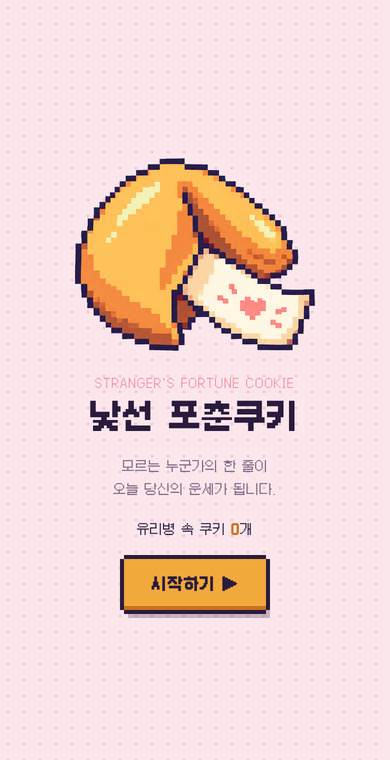
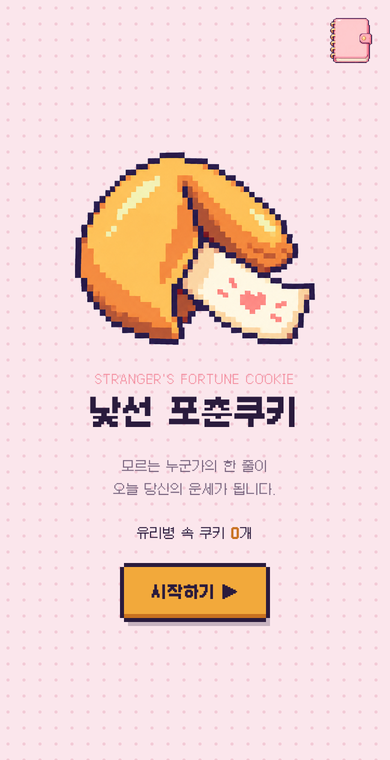
낯선 쪽지 모음 추가: 내가 연 쪽지를 수첩에 한 장씩 모으기
- 시작 화면 오른쪽 위 수첩 아이콘(모은 장수 배지)
- 표지 → 펼친 줄 노트에서 한 장씩 넘겨 보기 (버튼·스와이프·화살표 키)
- 쿠키를 열 때 서버에 방문자별로 저장 (GET ?book=1)
- 시작 화면 요소 간격 정리
- README 업데이트 기록·기능·API 갱신

Claude-Session: https://claude.ai/code/session_019H48sgWEPCeJ89SP3p48pL

Changed region(s): [[0.1846, 0.1816, 0.8308, 0.575], [0.3077, 0.6658, 0.7077, 0.8474], [0.8308, 0.0, 0.9538, 0.0908]]

diff --git a/index.html b/index.html
@@ -107,9 +107,51 @@ textarea::placeholder{color:#B7A6BB}
 .mixing{font-size:13px;color:var(--muted)}
 .mixing b{color:var(--dough-dark)}
 /* day / mine */
-.mine{margin:-6px 0 0;font-size:13px;color:var(--ink);background:var(--panel);padding:6px 12px;box-shadow:0 0 0 2px var(--ink);word-break:keep-all}
+#s0{gap:22px}
+#s0 .jar-info{display:grid;gap:12px;justify-items:center}
+.mine{margin:0;font-size:13px;color:var(--ink);background:var(--panel);padding:6px 12px;box-shadow:0 0 0 2px var(--ink);word-break:keep-all}
 .mine b{color:#D9677C}
-.day-note{margin:0;font-size:12px;line-height:1.8;color:var(--muted);word-break:keep-all}
+.day-note{margin:-6px 0 0;font-size:12px;line-height:1.8;color:var(--muted);word-break:keep-all}
+/* collection */
+.book-fab{position:fixed;z-index:3;top:calc(env(safe-area-inset-top,0px) + 14px);right:14px;display:none;justify-items:center;gap:4px;
+  background:none;border:0;padding:4px;cursor:pointer;font:inherit;font-family:var(--pixel);color:var(--ink)}
+body:not([data-screen]) .book-fab,body[data-screen="0"] .book-fab{display:grid}
+.book-ico{position:relative;display:block;width:42px;height:45px}
+.book-ico img{width:100%;height:100%;image-rendering:pixelated;display:block}
+.book-fab:hover .book-ico img{transform:translateY(-2px)}
+.book-fab:focus-visible{outline:3px dashed var(--pink);outline-offset:4px}
+.badge{position:absolute;top:-6px;right:-8px;min-width:20px;height:20px;padding:0 5px;display:grid;place-items:center;
+  background:var(--dough);color:var(--ink);font-size:11px;font-weight:700;box-shadow:0 0 0 2px var(--ink)}
+
+.book-wrap{width:100%;display:grid;gap:16px;justify-items:center}
+.book-sub{font-size:12px;color:var(--muted);margin:0;word-break:keep-all;line-height:1.8}
+/* cover */
+.cover{display:grid;gap:14px;justify-items:center;cursor:pointer;background:none;border:0;padding:0;font:inherit;color:inherit}
+.cover img{width:min(230px,62vw);height:auto;image-rendering:pixelated;display:block}
+.cover:hover img{transform:translateY(-3px)}
+.cover-count{font-size:13px}
+.cover-count b{color:#D9677C}
+/* open notebook */
+.nb{position:relative;width:min(330px,100%);aspect-ratio:3/4;display:grid;grid-template-columns:26px 1fr;
+  box-shadow:0 -4px 0 0 var(--ink),0 4px 0 0 var(--ink),-4px 0 0 0 var(--ink),4px 0 0 0 var(--ink),8px 12px 0 0 rgba(42,27,61,.2);background:#F48FA0}
+.nb-rings{display:flex;flex-direction:column;justify-content:space-around;align-items:center;padding:14px 0;background:#F48FA0}
+.nb-rings i{width:22px;height:9px;background:#F2A93B;box-shadow:0 0 0 2px var(--ink),inset 0 -3px 0 0 #C8711F;transform:translateX(9px)}
+.paper{position:relative;margin:10px 10px 10px 4px;background:#FFFDF6;overflow:hidden;
+  background-image:linear-gradient(90deg,transparent 30px,#F7B8C4 30px,#F7B8C4 32px,transparent 32px),
+    repeating-linear-gradient(transparent 0 31px,#D8E6F2 31px 32px);background-position:0 0,0 70px;
+  box-shadow:inset 0 0 0 2px var(--ink);transform-origin:left center}
+.paper-in{position:absolute;inset:0;padding:20px 16px 14px 42px;text-align:left;display:grid;grid-template-rows:auto 1fr auto;gap:0}
+.p-date{height:50px;display:flex;align-items:center;gap:8px;font-size:13px;font-weight:700;color:#D9677C}
+.p-date small{font-weight:400;color:var(--muted);font-size:11px}
+.p-text{margin:0;padding-top:0;font-size:16px;line-height:32px;color:var(--ink);word-break:keep-all;overflow-wrap:anywhere;overflow:hidden}
+.p-foot{display:flex;justify-content:space-between;gap:6px;font-size:10px;color:var(--muted);font-variant-numeric:tabular-nums;padding-top:6px}
+.pager{display:flex;align-items:center;gap:14px}
+.pager button{font:inherit;font-family:var(--pixel);font-weight:700;font-size:15px;width:40px;height:36px;background:var(--panel);color:var(--ink);border:0;cursor:pointer;
+  box-shadow:0 -3px 0 0 var(--ink),0 3px 0 0 var(--ink),-3px 0 0 0 var(--ink),3px 0 0 0 var(--ink)}
+.pager button:disabled{opacity:.35;cursor:default}
+.pager span{min-width:64px;text-align:center;font-size:12px;color:var(--muted);font-variant-numeric:tabular-nums}
+.sample-badge{font-size:11px;color:#D9677C;margin:0}
+.linkbtn{background:none;border:0;padding:4px;font:inherit;font-size:12px;color:var(--muted);text-decoration:underline;cursor:pointer}
 /* empty */
 .empty-img{width:min(180px,48vw);height:auto;image-rendering:pixelated;filter:grayscale(.35);opacity:.9;animation:sulk 2.4s steps(4) infinite}
 @keyframes sulk{25%{transform:rotate(-4deg)}75%{transform:rotate(4deg)}}
@@ -159,14 +201,19 @@ textarea::placeholder{color:#B7A6BB}
   <img src="assets/icon-sparkle.png" alt="" style="left:9%;bottom:10%;--s:22px;--d:.9s">
   <img src="assets/icon-heart.png" alt="" style="right:8%;bottom:7%;--s:26px;--d:1.5s">
 </div>
+<button class="book-fab" id="openBook" aria-label="낯선 쪽지 모음 열기">
+  <span class="book-ico"><img src="assets/book-icon.png" alt=""><b class="badge" id="bookCount">0</b></span>
+</button>
 <main class="app">
   <!-- 0. 시작 -->
   <section class="screen enter" id="s0" aria-labelledby="t0">
     <img class="cookie-img bob" src="assets/cookie.png" alt="쪽지가 삐져나온 포춘쿠키">
     <h1 id="t0"><small>STRANGER'S FORTUNE COOKIE</small>낯선 포춘쿠키</h1>
     <p class="muted">모르는 누군가의 한 줄이<br>오늘 당신의 운세가 됩니다.</p>
-    <p class="jar">유리병 속 쿠키 <b id="jarCount">–</b>개</p>
-    <p class="mine" id="mine" hidden></p>
+    <div class="jar-info">
+      <p class="jar">유리병 속 쿠키 <b id="jarCount">–</b>개</p>
+      <p class="mine" id="mine" hidden></p>
+    </div>
     <button class="btn" id="start">시작하기 ▶</button>
     <p class="day-note" id="dayNote" hidden></p>
   </section>
@@ -197,6 +244,38 @@ textarea::placeholder{color:#B7A6BB}
       <img class="drop" src="assets/cookie.png" alt="">
     </div>
     <p class="mixing">유리병 속 쿠키 <b id="jarCount2">–</b>개<br>모르는 사람들의 쿠키와 섞는 중…</p>
+  </section>
+
+  <!-- 3. 낯선 쪽지 모음 -->
+  <section class="screen" id="sC" hidden aria-labelledby="tC">
+    <h2 id="tC">낯선 쪽지 모음</h2>
+    <div class="book-wrap">
+      <!-- 표지 -->
+      <div id="coverView" class="book-wrap">
+        <button class="cover" id="cover" aria-label="쪽지 모음 펼치기">
+          <img src="assets/book.png" alt="분홍색 수첩 표지">
+        </button>
+        <p class="cover-count" id="coverCount"></p>
+        <p class="book-sub" id="coverSub"></p>
+        <button class="btn" id="openPages">펼쳐 보기 ▶</button>
+        <button class="linkbtn" id="toggleSample" hidden>어떻게 쌓이는지 예시 보기</button>
+      </div>
+      <!-- 펼친 수첩 -->
+      <div id="pagesView" class="book-wrap" hidden>
+        <p class="sample-badge" id="sampleBadge" hidden>예시 쪽지예요. 실제 수첩에는 내가 받은 쪽지만 담겨요.</p>
+        <div class="nb" id="nb">
+          <div class="nb-rings" aria-hidden="true"><i></i><i></i><i></i><i></i><i></i><i></i></div>
+          <div class="paper" id="paper"><div class="paper-in">
+            <div class="p-date" id="pDate"></div>
+            <p class="p-text" id="pText"></p>
+            <div class="p-foot"><span id="pLucky"></span><span id="pNo"></span></div>
+          </div></div>
+        </div>
+        <div class="pager"><button id="prevPage" aria-label="이전 장">◀</button><span id="pageNum"></span><button id="nextPage" aria-label="다음 장">▶</button></div>
+        <button class="linkbtn" id="closePages">표지로 돌아가기</button>
+      </div>
+    </div>
+    <div class="actions"><button class="btn sub" id="closeBook">처음으로</button></div>
   </section>
 
   <!-- 1.7 깰 쿠키 없음 -->
@@ -238,7 +317,7 @@ textarea::placeholder{color:#B7A6BB}
 <script>
 (function(){
   const $=id=>document.getElementById(id);
-  const screens=[$('s0'),$('s1'),$('sJ'),$('s2'),$('sE')];
+  const screens=[$('s0'),$('s1'),$('sJ'),$('s2'),$('sE'),$('sC')];
   function show(i){
     screens.forEach((s,k)=>{ s.hidden=k!==i; s.classList.toggle('enter',k===i); });
     document.body.dataset.screen=i;
@@ -270,7 +349,7 @@ textarea::placeholder{color:#B7A6BB}
     async count(){const r=await fetch('/api/cookies',{cache:'no-store'}); if(!r.ok) throw r; return (await r.json()).count},
     async put(text){const r=await fetch('/api/cookies',{method:'POST',headers:{'Content-Type':'application/json'},body:JSON.stringify({text,v:visitor,shared})});
       const d=await r.json(); if(!r.ok) throw d; return d},
-    async open(id){const r=await fetch('/api/cookies',{method:'POST',headers:{'Content-Type':'application/json'},body:JSON.stringify({open:id,v:visitor,shared})});
+    async open(id,lucky){const r=await fetch('/api/cookies',{method:'POST',headers:{'Content-Type':'application/json'},body:JSON.stringify({open:id,v:visitor,shared,lucky})});
       const d=await r.json(); if(!r.ok) throw d; return d},
     async me(){const r=await fetch('/api/cookies?me=1&v='+encodeURIComponent(visitor),{cache:'no-store'}); if(!r.ok) throw r; return r.json()},
     async draw(justPut,seen){const q=new URLSearchParams({draw:'1',exclude:justPut||'',v:visitor,shared:shared?'1':'0',seen:seen.slice(-50).join(',')});
@@ -308,6 +387,79 @@ textarea::placeholder{color:#B7A6BB}
     const h=Math.floor(left/3600e3), m=Math.floor(left%3600e3/60e3);
     return (h?h+'시간 ':'')+m+'분';
   }
+  /* ---------- 낯선 쪽지 모음: 내가 연 쪽지를 날짜별로 저장 (배포: 서버 / 미리보기: 내 전용 db 공간 / 그 외: 이 기기) ---------- */
+  const book={ items:[], backend:null,
+    async init(){
+      try{
+        if(window.claude && window.claude.use){
+          const [db,user]=await Promise.all([window.claude.use('db'),window.claude.use('user')]);
+          const uid=user && await user.id();
+          if(db && uid){ this.backend={col:db.collection('data/users/'+uid)}; const snap=await this.backend.col.get(); this.items=snap.docs.filter(d=>d.id.startsWith('p_')).map(d=>d.data()); this.sort(); return; }
+        }
+      }catch(e){}
+      try{
+        const r=await fetch('/api/cookies?book=1&v='+encodeURIComponent(visitor),{cache:'no-store'});
+        if(r.ok){ this.backend={server:true}; this.items=(await r.json()).items||[]; this.sort(); return; }
+      }catch(e){}
+      try{ this.items=JSON.parse(localStorage.getItem('fc-book')||'[]'); }catch(e){ this.items=[]; }
+      this.sort();
+    },
+    sort(){ this.items.sort((a,b)=>b.t-a.t); },
+    async add(e){
+      if(this.items.some(x=>x.id===e.id)) return;
+      this.items.unshift(e);
+      if(this.backend && this.backend.server){ /* 서버는 쿠키를 열 때 이미 저장함 */ }
+      else if(this.backend){ try{ await this.backend.col.doc('p_'+e.id).set(e); }catch(err){} }
+      else{ try{ localStorage.setItem('fc-book',JSON.stringify(this.items)); }catch(err){} }
+    } };
+  const SAMPLES=[
+    {id:'s1',date:'2026-10-18',no:29,text:'좋아하는 것을 계속 따라가세요 반드시 행복해집니다(´▽`)ﾉ',lucky:'행운의 숫자 03 07 29 33 38 45'},
+    {id:'s2',date:'2026-10-17',no:12,text:'우울할 땐 우사기 하입보이 50초부터 들어보세요 ♪♪',lucky:'행운의 숫자 01 03 21 30 40 44'},
+    {id:'s3',date:'2026-10-16',no:3,text:'힘들 땐 하늘을 봐',lucky:'행운의 숫자 16 20 21 29 37 41'},
+    {id:'s4',date:'2026-10-15',no:7,text:'힘든 오늘이 내 인생의 전부는 아니다',lucky:'행운의 숫자 04 10 23 29 32 39'}];
+  let showSample=false, page=0;
+  const WD=['일','월','화','수','목','금','토'];
+  function fmtDate(d){ const [y,m,dd]=d.split('-').map(Number); const w=new Date(Date.UTC(y,m-1,dd)).getUTCDay(); return m+'월 '+dd+'일 ('+WD[w]+')'; }
+  const rowsNow=()=>book.items.length? [...book.items].sort((a,b)=>a.t-b.t) : (showSample? [...SAMPLES].reverse() : []);
+  function renderBook(){
+    const n=book.items.length;
+    $('bookCount').textContent=n; $('bookCount').hidden=!n;
+    $('coverCount').innerHTML = n ? '모은 쪽지 <b>'+n+'</b>장' : '';
+    $('coverSub').innerHTML = n ? '모르는 사람들에게 받은 한 줄이<br>하루에 한 장씩 쌓여요.' : '아직 받은 쪽지가 없어요.<br>오늘의 쿠키를 깨면 첫 장이 채워져요.';
+    $('openPages').hidden=!n; $('toggleSample').hidden=!!n;
+  }
+  function renderPage(){
+    const rows=rowsNow(); if(!rows.length) return;
+    page=Math.max(0,Math.min(page,rows.length-1));
+    const e=rows[page];
+    $('pDate').innerHTML=''; const d=document.createElement('span'); d.textContent=fmtDate(e.date);
+    const sm=document.createElement('small'); sm.textContent='No.'+String(e.no).padStart(3,'0'); $('pDate').append(d,sm);
+    $('pText').textContent=e.text; $('pLucky').textContent=e.lucky; $('pNo').textContent=(page+1)+'번째 쪽지';
+    $('pageNum').textContent=(page+1)+' / '+rows.length;
+    $('prevPage').disabled=page===0; $('nextPage').disabled=page===rows.length-1;
+    $('sampleBadge').hidden=!!book.items.length;
+  }
+  function openPages(){ page=rowsNow().length-1; $('coverView').hidden=true; $('pagesView').hidden=false; renderPage(); }
+  function closePages(){ $('pagesView').hidden=true; $('coverView').hidden=false; showSample=false; renderBook(); }
+  function turn(dir){
+    const rows=rowsNow(), np=page+dir; if(np<0||np>=rows.length) return;
+    page=np; renderPage();
+  }
+  $('prevPage').addEventListener('click',()=>turn(-1));
+  $('nextPage').addEventListener('click',()=>turn(1));
+  $('cover').addEventListener('click',()=>{ if(book.items.length) openPages(); });
+  $('openPages').addEventListener('click',openPages);
+  $('closePages').addEventListener('click',closePages);
+  $('toggleSample').addEventListener('click',()=>{ showSample=true; openPages(); });
+  document.addEventListener('keydown',e=>{ if($('sC').hidden||$('pagesView').hidden) return; if(e.key==='ArrowLeft') turn(-1); if(e.key==='ArrowRight') turn(1); });
+  (()=>{ let x0=null; const nb=$('nb');
+    nb.addEventListener('pointerdown',e=>{ x0=e.clientX; });
+    nb.addEventListener('pointerup',e=>{ if(x0===null) return; const dx=e.clientX-x0; x0=null; if(Math.abs(dx)>40) turn(dx<0?1:-1); });
+  })();
+  $('openBook').addEventListener('click',()=>{ closePages(); renderBook(); show(5); });
+  $('closeBook').addEventListener('click',()=>{ renderStart(); show(0); });
+  book.init().then(renderBook);
+
   function renderStart(){
     if(!shared && day.date!==today()) day=loadDay();
     const st=$('start'), note=$('dayNote'); st.disabled=false;
@@ -509,7 +661,8 @@ textarea::placeholder{color:#B7A6BB}
       $('crackHint').textContent='유리병에 아직 다른 사람의 쿠키가 없어요. 다음 사람이 넣고 나면 다시 두드려 주세요.'; $('actions').hidden=false;
       return;
     }
-    try{ await store.open(pick.id); }
+    const luckyStr='행운의 숫자 '+lucky();
+    try{ await store.open(pick.id,luckyStr); }
     catch(e){
       if(e && e.error==='already_opened'){ day.opened=true; saveDay(); resetCrack(); renderStart(); show(0); return; }
     }
@@ -517,11 +670,13 @@ textarea::placeholder{color:#B7A6BB}
     buzz([30,30,90]); crumbs(6); burst(); cookie.classList.add('split'); cookie.disabled=true; $('taps').hidden=true;
     setTimeout(()=>{
       $('slipText').textContent=pick.text;
-      $('lucky').textContent='행운의 숫자 '+lucky();
+      $('lucky').textContent=luckyStr;
       $('serial').textContent='No.'+String(pick.no).padStart(3,'0');
       $('slip').hidden=false; $('after').hidden=false; $('actions').hidden=false; $('share').hidden=false; $('shareMsg').textContent='';
       $('t2').textContent='포춘쿠키가 깨졌어요!'; $('crackHint').textContent='모르는 누군가의 한 줄이 나왔어요.';
-      if(!shared){ day.opened=true; day.slip={text:pick.text,lucky:$('lucky').textContent,serial:$('serial').textContent}; saveDay(); }
+      if(!shared){ day.opened=true; day.slip={text:pick.text,lucky:$('lucky').textContent,serial:$('serial').textContent}; saveDay();
+        book.add({id:pick.id,date:today(),no:pick.no,text:pick.text,lucky:$('lucky').textContent,t:Date.now()}).then(renderBook);
+        $('shareMsg').textContent='낯선 쪽지 모음에 한 장 담았어요 ♥'; }
     }, matchMedia('(prefers-reduced-motion: reduce)').matches?0:520);
   });
 

diff --git a/api/cookies.js b/api/cookies.js
@@ -7,6 +7,7 @@ const redis = url && token ? new Redis({ url, token }) : null;
 
 const KEY = "fortune:cookies"; // 유리병 속 쿠키 목록
 const OPENS = "fortune:opens"; // 쿠키별로 열린 횟수 (hash: 쿠키 id → 횟수)
+const BOOK = (v) => `fortune:book:${v}`; // 방문자별 '낯선 쪽지 모음' (내가 연 쪽지 목록)
 const MAX_LEN = 100;
 const MAX_COOKIES = 5000;
 const DAY_TTL = 60 * 60 * 48; // 하루 기록은 이틀 뒤 자동 삭제
@@ -54,6 +55,14 @@ export default async function handler(req, res) {
       return res.status(200).json({ mine: ids.length, opened, putToday: !!putToday, openedToday: !!openedToday });
     }
 
+    // 낯선 쪽지 모음: 내가 연 쪽지 목록 (오래된 순)
+    if (req.method === "GET" && req.query.book) {
+      const v = cleanVisitor(req.query.v);
+      if (!v) return res.status(200).json({ items: [] });
+      const items = (await redis.lrange(BOOK(v), 0, -1)).map((c) => (typeof c === "string" ? JSON.parse(c) : c));
+      return res.status(200).json({ items });
+    }
+
     // 유리병 속 쿠키 개수
     if (req.method === "GET" && !req.query.draw) {
       const count = await redis.llen(KEY);
@@ -93,6 +102,15 @@ export default async function handler(req, res) {
           if (!first) return res.status(429).json({ error: "already_opened" });
         }
         const opens = await redis.hincrby(OPENS, id, 1);
+        // 낯선 쪽지 모음에 한 장 저장 (문장과 번호는 서버의 원본에서 가져옴)
+        if (!shared && v) {
+          const all = await readAll();
+          const c = all.find((x) => x.id === id);
+          if (c) {
+            const lucky = String(body.lucky || "").replace(/[^0-9 가-힣]/g, "").slice(0, 40);
+            await redis.rpush(BOOK(v), JSON.stringify({ id: c.id, text: c.text, no: c.no, lucky, date: d, t: Date.now() }));
+          }
+        }
         return res.status(200).json({ ok: true, opens });
       }
 

diff --git a/README.md b/README.md
@@ -74,6 +74,7 @@
 
 | 기능 | 설명 |
 |---|---|
+| **낯선 쪽지 모음** | 내가 연 쪽지가 하루에 한 장씩 수첩에 쌓여요. 시작 화면 오른쪽 위 수첩 아이콘(모은 장수 배지)을 누르면 표지가 나오고, 펼쳐서 한 장씩 넘겨 볼 수 있어요. 서버에 방문자별로 저장돼요. |
 | **쪽지 정보** | 받은 한 줄과 함께 행운의 숫자 6개(1~45, 깰 때마다 새로 뽑음)와 쿠키 번호(No.001)가 찍혀요. |
 
 ### 연출
@@ -137,6 +138,8 @@ fortune-cookie/
 │   ├── cookie.png          # 포춘쿠키 픽셀 이미지
 │   ├── cookie-broken.png   # 깨진 포춘쿠키 이미지
 │   ├── jar.png             # 쿠키 유리병 이미지
+│   ├── book.png            # 낯선 쪽지 모음 수첩 표지
+│   ├── book-icon.png       # 시작 화면 수첩 아이콘
 │   ├── icon-*.png          # 장식 아이콘 (하트 · 별 · 클로버 · 반짝이)
 │   ├── favicon*.png        # 파비콘 · 홈 화면 아이콘
 │   ├── og.png              # 링크 미리보기 이미지 (1200×630)
@@ -154,7 +157,8 @@ fortune-cookie/
 |---|---|---|---|
 | `GET` | — | `{ count }` | 유리병 속 쿠키 수 |
 | `POST` | `{ text, v, shared }` | `{ id, count }` | 한 줄 넣기 (`text` 2~100자, `v` 방문자 ID, 하루 한 번) |
-| `POST` | `{ open, v, shared }` | `{ ok, opens }` | 쿠키 열기 기록 (`open` 쿠키 ID, 하루 한 번, 열린 횟수 +1) |
+| `POST` | `{ open, v, shared, lucky }` | `{ ok, opens }` | 쿠키 열기 기록 (`open` 쿠키 ID, 하루 한 번, 열린 횟수 +1, 낯선 쪽지 모음에 저장) |
+| `GET` | `?book=1&v=…` | `{ items }` | 낯선 쪽지 모음 (내가 연 쪽지 목록) |
 | `GET` | `?me=1&v=…` | `{ mine, opened, putToday, openedToday }` | 내 쿠키 소식과 오늘 참여 여부 |
 | `GET` | `?draw=1&v=…&exclude=…&seen=…&shared=0` | `{ id, text, no, count }` 또는 `{ empty: true }` | 무작위로 하나 꺼내기 |
 
@@ -174,7 +178,7 @@ fortune-cookie/
 | 리전 | `iad1` Washington, D.C. (Vercel 함수와 같은 리전) |
 | 연결 프로젝트 | `fortune-cookie` (Production, Preview) |
 | 환경변수 접두사 | `KV` → `KV_REST_API_URL`, `KV_REST_API_TOKEN` 등 |
-| 저장 키 | `fortune:cookies` (쿠키 목록), `fortune:opens` (쿠키별 열린 횟수), `fortune:put:날짜` · `fortune:open:날짜` (그날 참여한 방문자, 이틀 뒤 자동 삭제) |
+| 저장 키 | `fortune:cookies` (쿠키 목록), `fortune:opens` (쿠키별 열린 횟수), `fortune:book:방문자ID` (낯선 쪽지 모음), `fortune:put:날짜` · `fortune:open:날짜` (그날 참여한 방문자, 이틀 뒤 자동 삭제) |
 
 연결 방법은 다음과 같습니다.
 
@@ -206,6 +210,22 @@ fortune-cookie/
 
 
 ## 업데이트 기록
+
+### 2026.10.18 · 낯선 쪽지 모음
+
+- **낯선 쪽지 모음**: 내가 연 쪽지를 하루에 한 장씩 모아 두는 수첩이 생겼습니다.
+- **시작 화면 아이콘**: 오른쪽 위 분홍 수첩 아이콘에 모은 장수가 배지로 표시됩니다.
+- **표지와 펼친 수첩**: 아이콘을 누르면 수첩 표지가 나오고, 펼치면 줄 노트 종이에 날짜, 쪽지 번호, 받은 한 줄, 그날의 행운의 숫자가 적혀 있습니다. ◀ ▶ 버튼, 좌우로 밀기, 키보드 화살표로 한 장씩 넘길 수 있습니다.
+- **서버 저장**: 쪽지 모음은 서버에 방문자별로 저장되어 새로고침해도 사라지지 않습니다. (`#shared` 시연 모드에서는 저장하지 않음)
+- **시작 화면 정리**: 요소 사이 간격을 넓혀 덜 답답하게 바꿨습니다.
+
+<table align="center">
+  <tr>
+    <td align="center"><img src="docs/10-book-start.png" width="220" alt="수첩 아이콘이 있는 시작 화면"><br><sub>시작 화면 수첩 아이콘</sub></td>
+    <td align="center"><img src="docs/11-book-cover.png" width="220" alt="낯선 쪽지 모음 표지"><br><sub>표지</sub></td>
+    <td align="center"><img src="docs/12-book-page.png" width="220" alt="낯선 쪽지 모음 펼친 화면"><br><sub>펼친 수첩</sub></td>
+  </tr>
+</table>
 
 ### 2026.10.18 · 하루 한 번 & 내 쿠키 소식
 
